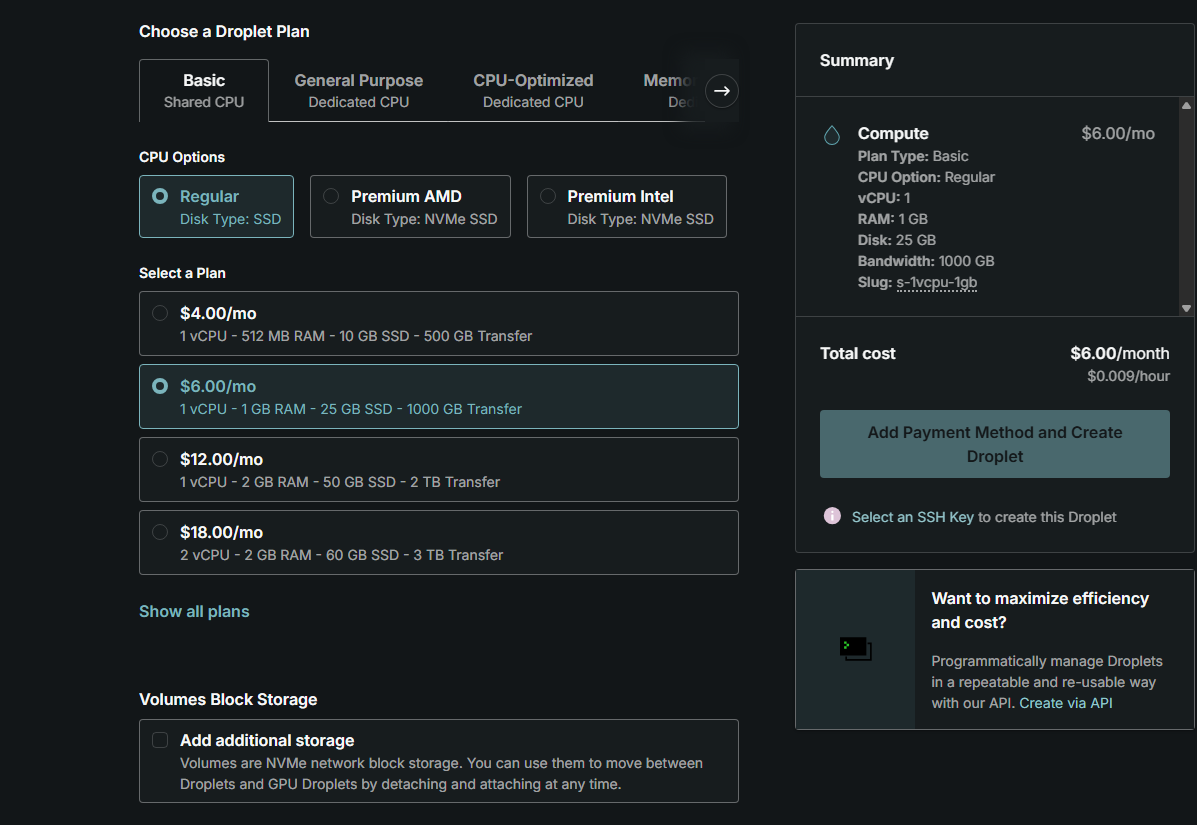
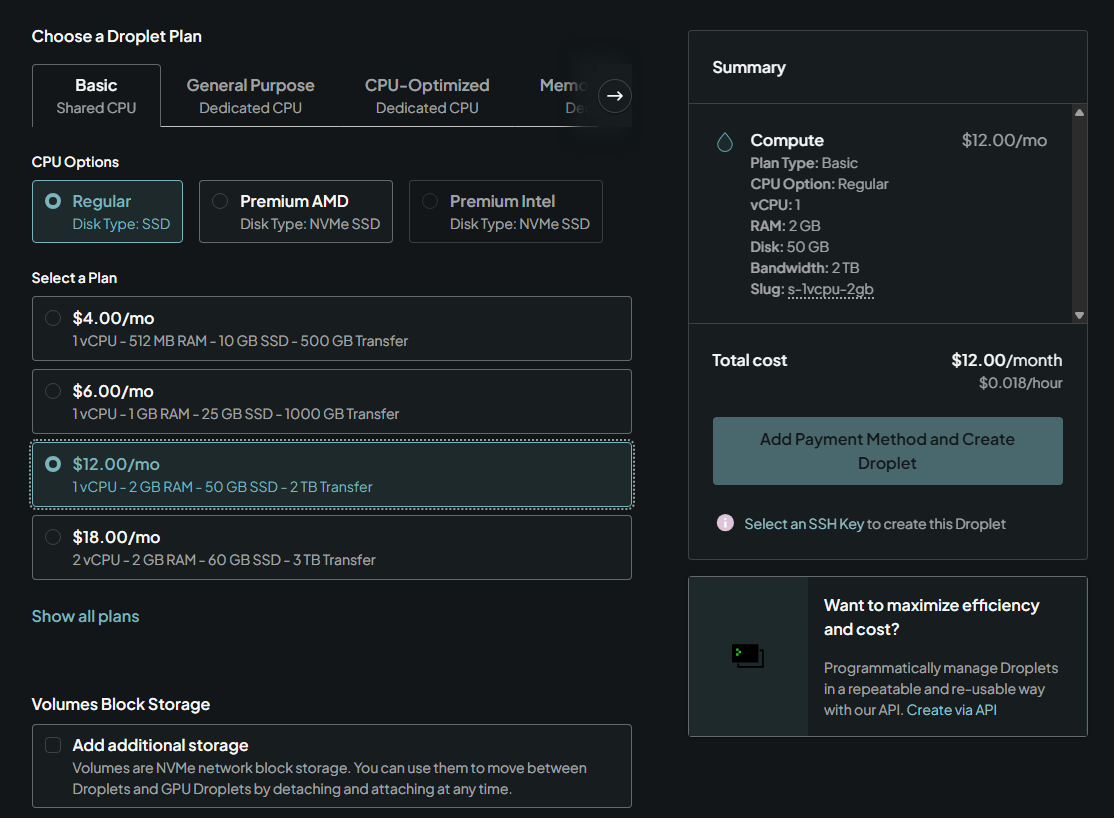
Update documentation

diff --git a/docs/administration/docker/digital-ocean.md b/docs/administration/docker/digital-ocean.md
@@ -2,99 +2,56 @@
 
 DigitalOcean is a cloud platform that provides scalable infrastructure, including virtual servers (Droplets), storage, networking, and other cloud services. In this guide, we will use a DigitalOcean Droplet to deploy and run a self-hosted EspoCRM instance.
 
-1. Sign up on the [official DigitalOcean website](https://cloud.digitalocean.com/registrations/new)
+1\. Sign up on the [official DigitalOcean website](https://cloud.digitalocean.com/registrations/new)
 
-2. Create a Droplet
+2\. Create a Droplet
 
 ![Create a droplet](../../_static/images/administration/digital-ocean/droplet-create.png)
 
-3. Choose a datacenter region that is convenient for you. The recommended OS is Ubuntu or Debian.
+3\. Choose a datacenter region that is convenient for you. The recommended OS is Ubuntu or Debian.
 
 ![Choose a datecenter](../../_static/images/administration/digital-ocean/datacenter.png)
 
-4. We recommend a Droplet plan with at least 1 GB of RAM.. Higher plans may provide a smooother user experience.
+4\. We recommend a Droplet plan with at least 2 GB of RAM. Higher plans may provide a smooother user experience.
 
 ![Choose a droplet plan](../../_static/images/administration/digital-ocean/droplet-plan.png)
 
-5. Attach an SSH key or create a password, although using a password provides lower security. Add Payment Method and complete the Droplet creation.
+5\. Attach an SSH key or create a password, although using a password provides lower security. Add Payment Method and complete the Droplet creation.
 
 ![Create an SSH key](../../_static/images/administration/digital-ocean/ssh-key.png)
 
-> [!NOTE]
-> At this step, you can proceed with registeting a domain on any preffered domain provider and bind it to the Public IPv4 address shown in the Droplet menu.
+!!! note
+
+    To make your EspoCRM instance accessible through a domain, configure a DNS record pointing the domain to the Public IPv4 address of your Droplet. See the [Domain Configuration Guide](../DNS-configuration.md) for an example using Cloudflare.
 
 ![puplic IPv4](../../_static/images/administration/digital-ocean/public-ip.png)
 
-6. Now, log in to your server using the "Web Console" button or any other convenient way (e.g., a terminal) as the root user.
+6\. Now, log in to your server using the "Web Console" button or any other convenient way (e.g., a terminal) as the root user.
 
 ![web-console position](../../_static/images/administration/digital-ocean/web-console.png)
 
-7. Right after you log in to your server you can already download the installation script and run it with a singlt command:
+7\. Right after you log in to your server you can already download the installation script and run it with a single command:
 ```
 wget -N https://github.com/espocrm/espocrm-installer/releases/latest/download/install.sh
-sudo bash install.sh
+sudo bash install.sh --ssl
 ```
 During installation process, the system will prompt you to choose appropriate SSL protocol and enter a domain name, if available.
 
 It's also possible to run the installer with all necessary preset, for example:
 ```
 wget -N https://github.com/espocrm/espocrm-installer/releases/latest/download/install.sh
-sudo bash install.sh -y --ssl --letsencrypt --domain=my-espocrm.com --email=email@my-domain.com
+sudo bash install.sh -y --ssl --letsencrypt --domain=espocrm-sandbox.com --email=email@my-domain.com
 ```
 
-All available prompt options can be foud [here](installation-by-script.md#available-options)
+All available prompt options can be foud [here](../installation-by-script.md#available-options)
 
 After a successful installation, the login credentials, including the URL that you can use to access EspoCRM, will be shown in the terminal.
 
 ![Login credentails in terminal](../../_static/images/administration/digital-ocean/credentials.png)
 
-# Fail2ban
+## Additional Security
 
-Fail2Ban is a security tool that monitors system logs for repeated failed authentication attempts and temporarily blocks suspicious IP addresses. It helps protect the server against brute-force attacks.
+To improve the security of your EspoCRM server, we recommend configuring Fail2ban to help protect against repeated unauthorized access attempts.
 
-The following steps demonstrate how to install and check that Fail2Ban is correctly configured on your server.
+For more information, see the [Fail2ban Setup Guide](../Fail2ban.md).
 
-1. Install
-```
-sudo apt update
-sudo apt install fail2ban -y
-```
-2. Create the SSH jail configuration
-Create the file:
-```
-sudo nano /etc/fail2ban/jail.d/sshd.local
-```
-Add the following configuration:
-```
-[sshd]
-enabled = true
-port = ssh
-filter = sshd
-backend = systemd
-
-findtime = 10m
-maxretry = 5
-bantime = 1h
-```
-3. Test the configuration
-Run:
-```
-sudo fail2ban-client -t
-```
-You should see:
-```
-OK: configuration test is successful
-```
-4. Restart Fail2Ban
-```
-sudo systemctl restart fail2ban
-sudo systemctl enable fail2ban
-```
-5. Check the jail
-```
-sudo fail2ban-client status
-```
-Check SSH jail details:
-```
-sudo fail2ban-client status sshd
-```

diff --git a/docs/administration/Fail2ban.md b/docs/administration/Fail2ban.md
@@ -1,0 +1,50 @@
+# Fail2ban
+
+Fail2Ban is a security tool that monitors system logs for repeated failed authentication attempts and temporarily blocks suspicious IP addresses. It helps protect the server against brute-force attacks.
+
+The following steps demonstrate how to install and check that Fail2Ban is correctly configured on your server.
+
+1\. Install
+```
+sudo apt update
+sudo apt install fail2ban -y
+```
+2\. Create the SSH jail configuration
+Create the file:
+```
+sudo nano /etc/fail2ban/jail.d/sshd.local
+```
+Add the following configuration:
+```
+[sshd]
+enabled = true
+port = ssh
+filter = sshd
+backend = systemd
+
+findtime = 10m
+maxretry = 5
+bantime = 1h
+```
+3\. Test the configuration
+Run:
+```
+sudo fail2ban-client -t
+```
+You should see:
+```
+OK: configuration test is successful
+```
+4\. Restart Fail2Ban
+```
+sudo systemctl restart fail2ban
+sudo systemctl enable fail2ban
+```
+5\. Check the jail
+```
+sudo fail2ban-client status
+```
+Check SSH jail details:
+```
+sudo fail2ban-client status sshd
+```

diff --git a/docs/administration/DNS-configuration.md b/docs/administration/DNS-configuration.md
@@ -1,0 +1,19 @@
+# DNS configuration
+
+This guide explains how to configure DNS records for your domain and point them to the Public IPv4 address of your server using CloudeFlare.
+
+1\. Select the account.
+
+![Select the account](../_static/images/administration/DNS-configuration/select-account.png)
+
+2\. Go to Domain section
+
+![Domain seaction](../_static/images/administration/DNS-configuration/domain-section.png)
+
+3\. Go to DNS configuration
+
+![DNS configuration](../_static/images/administration/DNS-configuration/DNS-conf.png)
+
+4\.  Define an IP address of your VPS server. If you are using a subdomain instead of the root domain, enter the subdomain name in the Name field instead of @. For example, enter crm to configure crm.example.com. The exact configuration may vary depending on your DNS provider.
+
+![Defining an IP address](../_static/images/administration/DNS-configuration/define-IP.png)

diff --git a/docs/index.md b/docs/index.md
@@ -14,6 +14,8 @@
   * [Caddy reverse proxy](administration/docker/caddy.md)
 * [Installation](administration/installation.md)
 * [Upgrading](administration/upgrading.md)
+* Deployment Guides
+  * [DigitalOcean](administration/docker/digital-ocean.md)
 * Miscellaneous
   * [WebSocket](administration/websocket.md)
   * Portal
